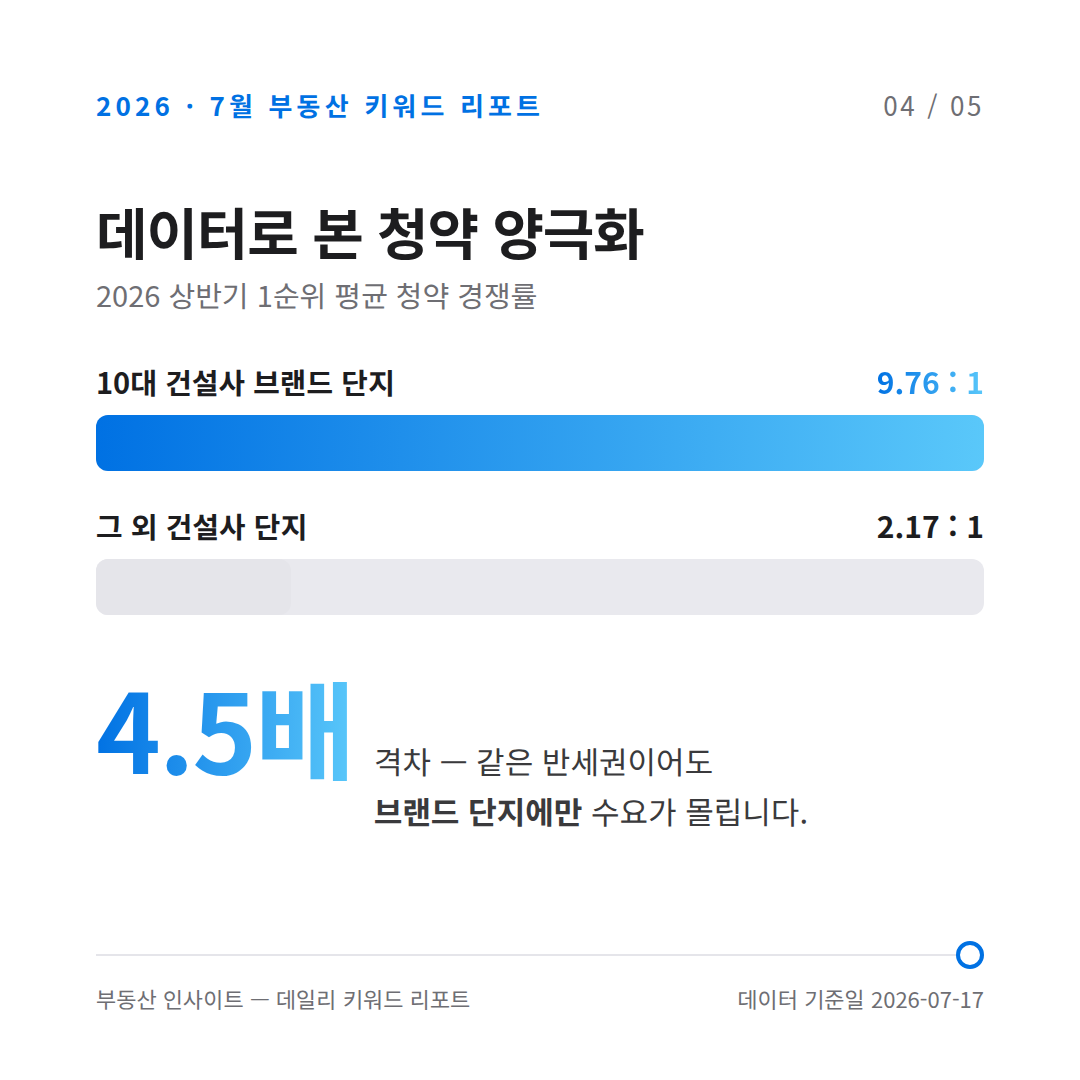
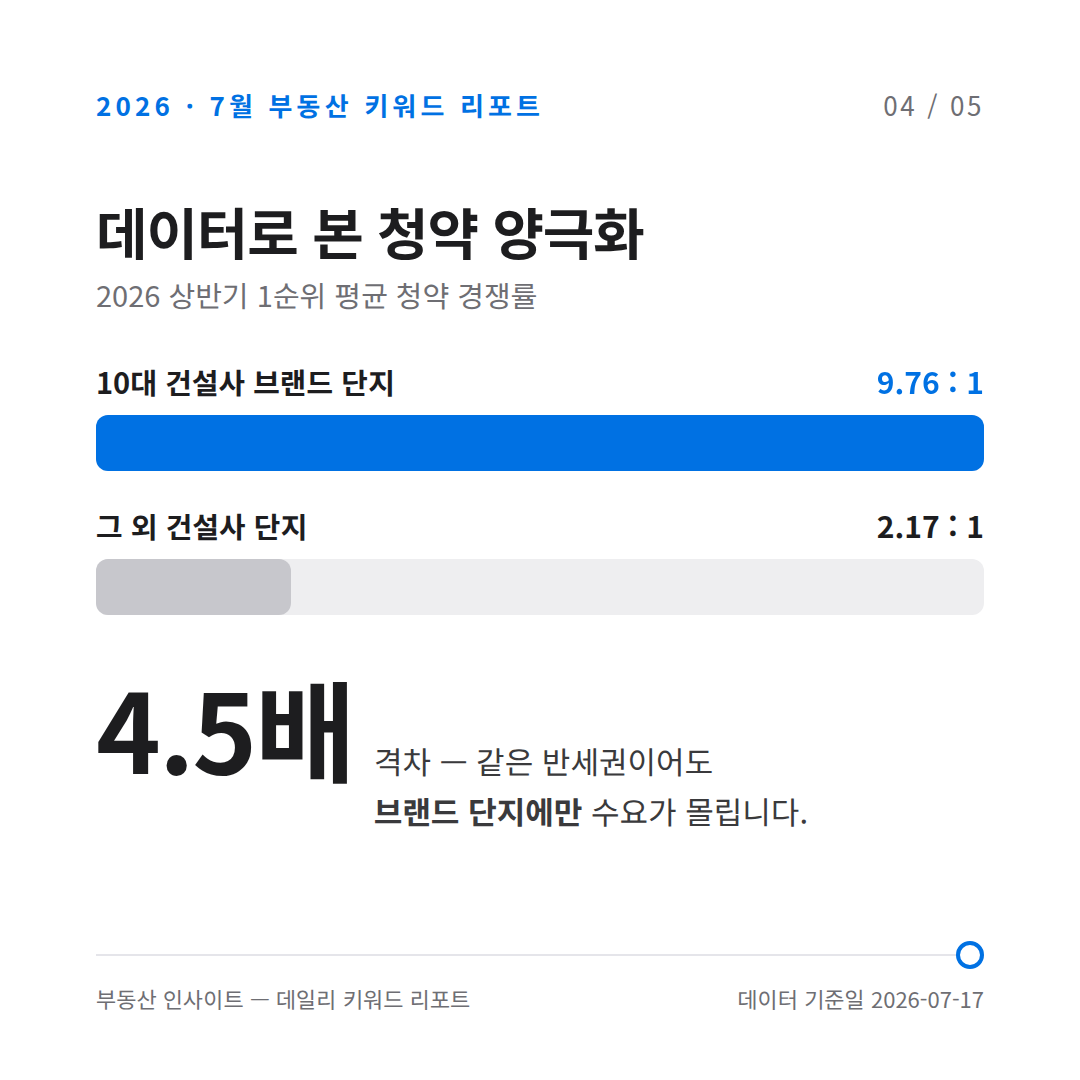
Fix invisible gray gauges and make white theme properly Apple-like
- Introduce per-theme --fillgray distinct from the rail color so gray
  chart bars are visible in white and editorial themes
- White theme: solid black headlines instead of gradient text, flat
  Apple blue accents, borderless cards with soft shadows, system font
  stack (SF Pro / Apple SD Gothic Neo on Apple devices)
- Regenerate white/editorial card news images with the same treatment

Claude-Session: https://claude.ai/code/session_014FPhCKpii9mVmDWMzN6gma

Changed region(s): [[0.3056, 0.3361, 0.9167, 0.4583], [0.0917, 0.6111, 0.3361, 0.7333], [0.0917, 0.5194, 0.275, 0.5806]]

diff --git a/posts/2026-07-17-banse.html b/posts/2026-07-17-banse.html
@@ -19,26 +19,44 @@ if(t&&t!=='report')document.documentElement.setAttribute('data-theme',t);}catch(
 :root{
   --navy:#0D1829; --panel:#132239; --ink:#F2F6FA; --mute:#96A5BA;
   --teal:#5EE6D0; --peri:#7C8CF8; --line:#2C3E5A;
-  --rail:#0f1c30; --onfill:#0D1829; --body-ink:#DCE5EF;
+  --rail:#0f1c30; --fillgray:#2C3E5A; --onfill:#0D1829; --body-ink:#DCE5EF;
   --grad:linear-gradient(92deg,var(--teal),var(--peri));
+  --sans:'Noto Sans KR',sans-serif;
   --head-font:'Noto Serif KR',serif; --head-space:0;
 }
 /* ── theme: 모던 미니멀 화이트 ─────────────────────────── */
 :root[data-theme="white"]{
   --navy:#ffffff; --panel:#f5f5f7; --ink:#1d1d1f; --mute:#6e6e73;
-  --teal:#0071e3; --peri:#5ac8fa; --line:#e5e5ea;
-  --rail:#e9e9ee; --onfill:#ffffff; --body-ink:#3a3a3c;
-  --head-font:'Noto Sans KR',sans-serif; --head-space:-0.02em;
+  --teal:#0071e3; --peri:#0071e3; --line:#e5e5ea;
+  --rail:#eeeef0; --fillgray:#c7c7cc; --onfill:#ffffff; --body-ink:#3a3a3c;
+  --sans:-apple-system,BlinkMacSystemFont,'Apple SD Gothic Neo','Noto Sans KR',sans-serif;
+  --head-font:-apple-system,BlinkMacSystemFont,'Apple SD Gothic Neo','Noto Sans KR',sans-serif;
+  --head-space:-0.02em;
 }
 /* ── theme: 에디토리얼 매거진 ──────────────────────────── */
 :root[data-theme="editorial"]{
   --navy:#F7F2E9; --panel:#FFFDF8; --ink:#2B2118; --mute:#8A7B6C;
   --teal:#C24D2C; --peri:#8A5A2B; --line:#E4D9C6;
-  --rail:#EFE7D8; --onfill:#FFFDF8; --body-ink:#4A3D2F;
+  --rail:#EFE7D8; --fillgray:#D2BC94; --onfill:#FFFDF8; --body-ink:#4A3D2F;
+  --sans:'Noto Sans KR',sans-serif;
   --head-font:'Noto Serif KR',serif; --head-space:0;
 }
+/* 화이트 테마 — 애플 스타일 보정: 단색 제목, 절제된 파랑, 테두리 대신 그림자 */
+:root[data-theme="white"] h1.gtx,
+:root[data-theme="white"] .post .kw.gtx,
+:root[data-theme="white"] .statrow .big{
+  background:none;-webkit-text-fill-color:var(--ink);color:var(--ink)}
+:root[data-theme="white"] article .mark,
+:root[data-theme="white"] ol.check li::before{
+  background:none;-webkit-text-fill-color:var(--teal);color:var(--teal)}
+:root[data-theme="white"] .kcard,
+:root[data-theme="white"] .chart{
+  border-color:transparent;border-radius:18px;box-shadow:0 4px 20px rgba(0,0,0,.06)}
+:root[data-theme="white"] .cards img,
+:root[data-theme="white"] figure.cardimg img{
+  border-color:transparent;box-shadow:0 4px 20px rgba(0,0,0,.08)}
 *{margin:0;padding:0;box-sizing:border-box}
-body{background:var(--navy);color:var(--ink);font-family:'Noto Sans KR',sans-serif;line-height:1.75;
+body{background:var(--navy);color:var(--ink);font-family:var(--sans);line-height:1.75;
   transition:background .35s,color .35s}
 .wrap{max-width:860px;margin:0 auto;padding:0 24px}
 .serif{font-family:var(--head-font);letter-spacing:var(--head-space)}
@@ -72,7 +90,7 @@ section h2{font-family:var(--head-font);letter-spacing:var(--head-space);font-we
   font-weight:700;font-size:.9rem;color:var(--ink);white-space:nowrap}
 .fill{height:100%;border-radius:9px;display:flex;align-items:center;justify-content:flex-end;
   padding-right:12px;font-weight:700;font-size:.9rem;color:var(--onfill);background:var(--grad)}
-.fill.gray{background:var(--line);color:var(--ink)}
+.fill.gray{background:var(--fillgray);color:var(--ink)}
 .chart .cap{color:var(--mute);font-size:.88rem;margin-top:8px}
 .statrow{display:flex;align-items:baseline;gap:14px;margin-top:16px}
 .statrow .big{font-family:var(--head-font);font-weight:900;font-size:2.6rem;line-height:1;

diff --git a/index.html b/index.html
@@ -24,10 +24,17 @@
 :root[data-theme="white"]{
   --bg:#ffffff; --panel:#f5f5f7; --ink:#1d1d1f; --mute:#6e6e73;
   --accent:#0071e3; --line:#e5e5ea;
-  --grad:linear-gradient(92deg,#0071e3,#5ac8fa);
+  --grad:linear-gradient(92deg,#0071e3,#0071e3);
   --radius:18px; --card-shadow:0 4px 20px rgba(0,0,0,.06);
-  --head-font:'Noto Sans KR',sans-serif; --head-space:-0.02em;
+  --sans:-apple-system,BlinkMacSystemFont,'Apple SD Gothic Neo','Noto Sans KR',sans-serif;
+  --head-font:-apple-system,BlinkMacSystemFont,'Apple SD Gothic Neo','Noto Sans KR',sans-serif;
+  --head-space:-0.02em;
 }
+/* 화이트 테마 — 애플 스타일 보정 */
+:root[data-theme="white"] h1 .gtx,
+:root[data-theme="white"] .post .kw.gtx{
+  background:none;-webkit-text-fill-color:var(--ink);color:var(--ink)}
+:root[data-theme="white"] .post{border-color:transparent}
 /* ── theme: 에디토리얼 매거진 ──────────────────────────── */
 :root[data-theme="editorial"]{
   --bg:#F7F2E9; --panel:#FFFDF8; --ink:#2B2118; --mute:#8A7B6C;
@@ -38,7 +45,7 @@
 }
 
 *{margin:0;padding:0;box-sizing:border-box}
-body{background:var(--bg);color:var(--ink);font-family:'Noto Sans KR',sans-serif;line-height:1.7;
+body{background:var(--bg);color:var(--ink);font-family:var(--sans,'Noto Sans KR',sans-serif);line-height:1.7;
   transition:background .35s,color .35s}
 .wrap{max-width:760px;margin:0 auto;padding:0 24px}
 .gtx{background:var(--grad);-webkit-background-clip:text;background-clip:text;color:transparent}
